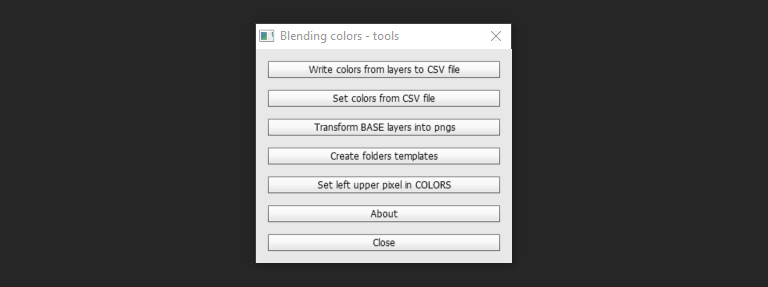
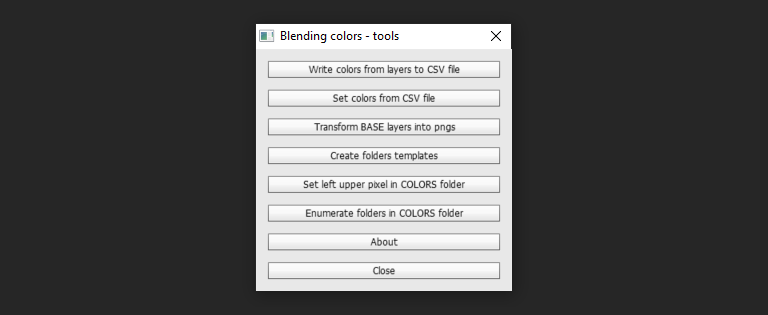
update

Changed region(s): [[0.3438, 0.1672, 0.6562, 0.9477], [0.3125, 0.0557, 0.6875, 0.1394]]

diff --git a/README.md b/README.md
@@ -11,9 +11,14 @@ Important! Tested and created for Photshop CS6 64bit Version: 13.0 on Windows 10
 
 ![How the program works](docs/images/How_it_works.png)
 
-|      Write colors from layers to CSV file           |            Set colors from CSV file           |        Transform BASE layers into pngs           |     Set left upper pixel in COLORS           |     Create folders templates COLORS           |
-| :---------------------------------------: | :-------------------------------------------: | :-------------------------------------: | :-------------------------------------: | :-------------------------------------: |
-| ![Write colors from layers to CSV file](docs/images/1-Write-colors-from-layers-to-CSV-file.gif) | ![Set colors from CSV file](docs/images/2-Set-colors-from-CSV-file.gif)     | ![Transform BASE layers into pngs](docs/images/3-Transform-BASE-layers-into-pngs.gif)| ![Create folders templates](docs/images/4-Create-folders-templates.gif) | ![Set left upper pixel in COLORS](docs/images/5-Set-left-upper-pixel-in-COLORS.gif) |
+|      Write colors from layers to CSV file           |            Set colors from CSV file           |        Transform BASE layers into pngs           |
+| :---------------------------------------: | :-------------------------------------------: | :-------------------------------------: |
+| ![Write colors from layers to CSV file](docs/images/1-Write-colors-from-layers-to-CSV-file.gif) | ![Set colors from CSV file](docs/images/2-Set-colors-from-CSV-file.gif)     | ![Transform BASE layers into pngs](docs/images/3-Transform-BASE-layers-into-pngs.gif)|
+
+| Set left upper pixel in COLORS           |     Create folders templates COLORS           | Enumerate folders in COLORS|
+| :---------------------------------------: | :---------------------------------------: | :---------------------------------------: |
+| ![Create folders templates](docs/images/4-Create-folders-templates.gif) | ![Set left upper pixel in COLORS](docs/images/5-Set-left-upper-pixel-in-COLORS.gif) | ![Enumerate folders in COLORS folder](docs/images/6-Enumerate-folders-in-COLORS-folder.gif) |
+
 
 ## Getting Started 💡
 
@@ -38,6 +43,8 @@ If you want to customize the tool towards your needs look at **config.ini** in t
 - **Create folders templates** (Create a template in opened PSD for the tool)
 
 - **Set left upper pixel in COLORS** (Give each COLORS's layer a pixel which is needed to be able to read color value)
+
+- **Enumerate folders in COLORS** (Enumerate all folders in COLORS folder in reverse order)
 
 - **About** (mainly usage and author's info)
 
